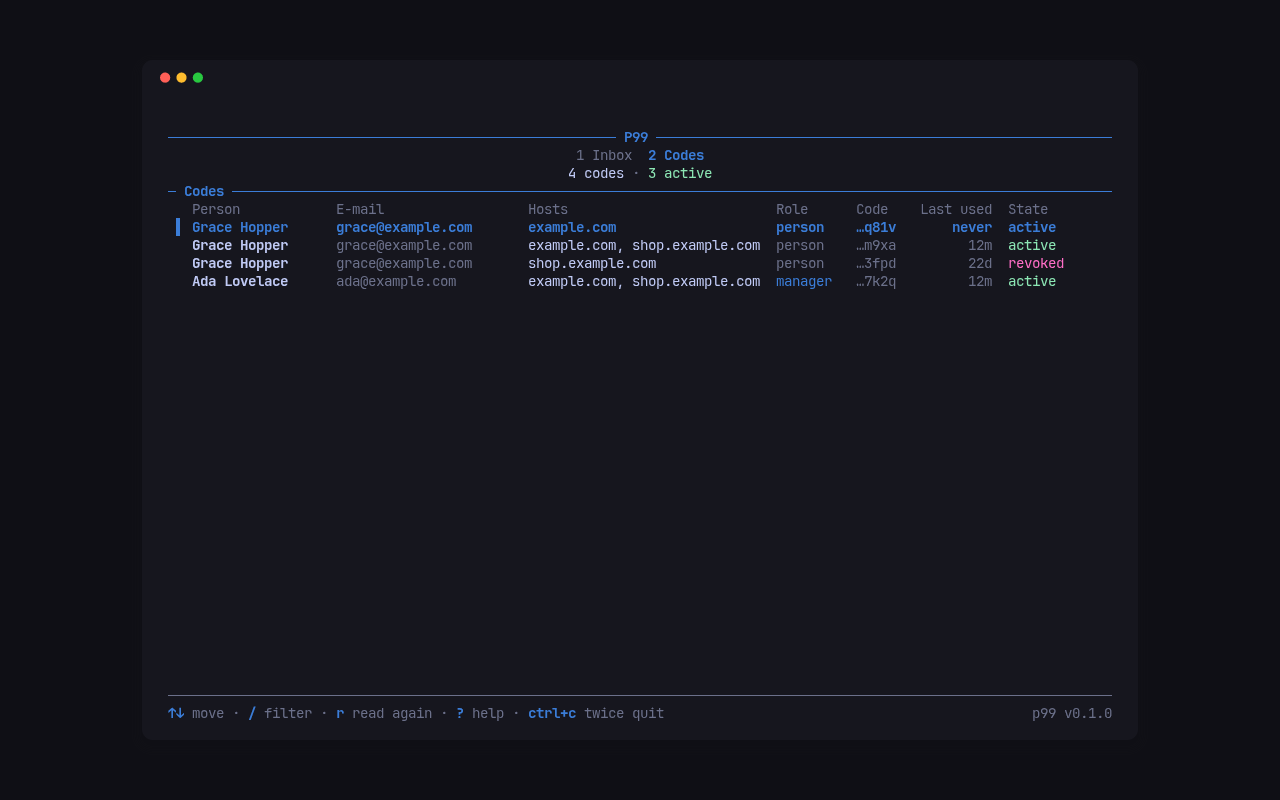
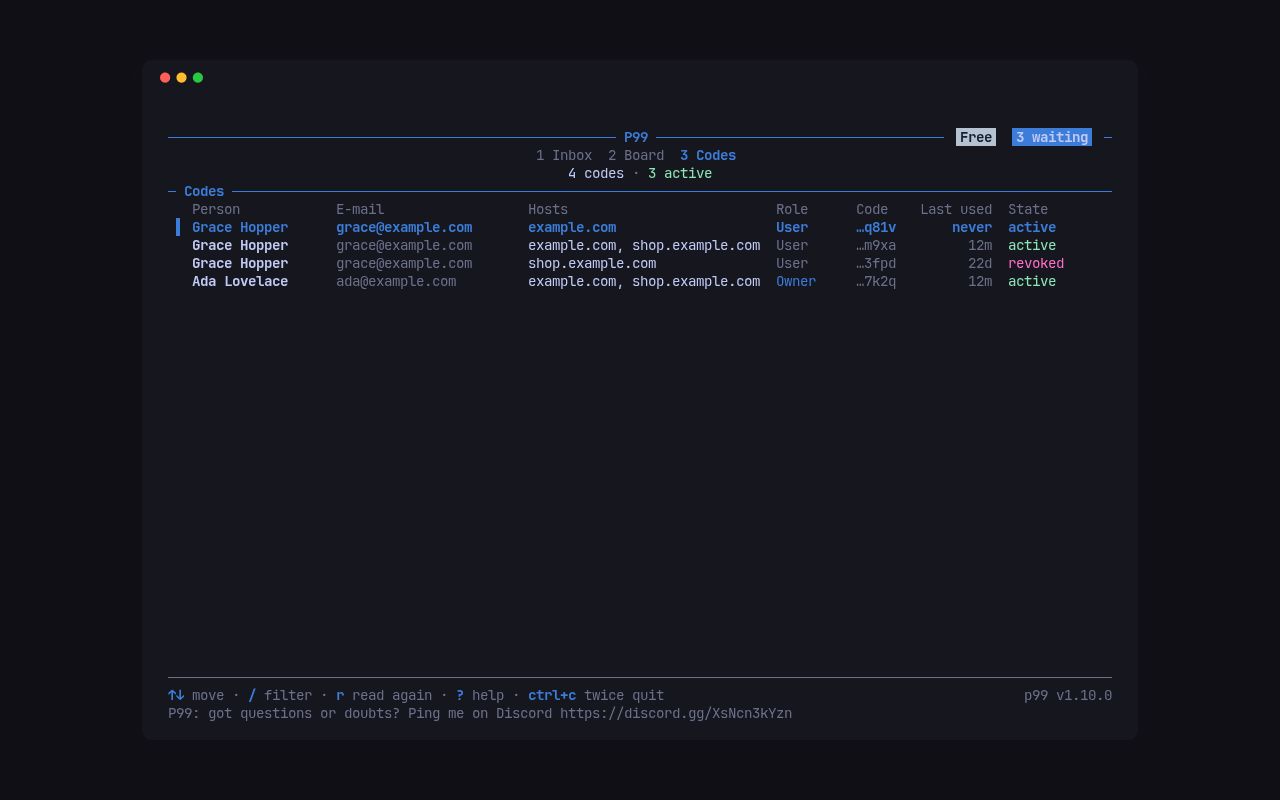
Re-shoot the thread and codes stills and the inbox, board and setup clips at 1.10: the agent's 🤖, the one board's seven lanes and project filter, the Owner and User words

diff --git a/README.md b/README.md
@@ -78,9 +78,9 @@ This is P99 on PITO MD's own site, [pitomd.com](https://pitomd.com), recorded on
 
 **The inbox.** `p99` (or `p99 tui`) shows every item across your sites and Cloudflare accounts, or one site at a time, with its host and its label on every row. Open a thread to read it, reply, add an internal note, move it to another lane with `m`, or assign it. `w` lists the cards that need you, and the header counts them (`3 waiting`). People are usernames, made from their names and changed by each person for themselves, so an assignee shows as `@grace.hopper` with a disc drawn from it, never an e-mail.
 
-<p align="center"><img src="docs/images/inbox.gif" width="800" alt="p99 tui: the inbox lists items from example.com, shop.example.com and dev.example.com with a host column, a filter narrows it, a thread opens with its host and environment, a reply is sent, the status set to resolved, and the view switches to one host."></p>
+<p align="center"><img src="docs/images/inbox.gif" width="800" alt="p99 tui: the inbox lists items from example.com, shop.example.com and dev.example.com with a host column, a filter narrows it, a thread opens with its host and environment, a reply is sent, the item moved to Done, and the view switches to one host."></p>
 
-<p align="center"><img src="docs/images/thread.png" width="49%" alt="A thread in p99 tui: BUG-3 on host shop.example.com in production, landed in dev and production, with three comments, one of them from Ada Lovelace 🤖 (her agent), and its events."> <img src="docs/images/codes.png" width="49%" alt="The codes screen of p99 tui: each invited person, their e-mail, hosts, role, the code's last four characters, when it was last used, and whether it is active."></p>
+<p align="center"><img src="docs/images/thread.png" width="49%" alt="A thread in p99 tui: BUG-3 on host shop.example.com in production, landed in dev and production, with three comments, one of them from Ada Lovelace 🤖 (her agent), and its events."> <img src="docs/images/codes.png" width="49%" alt="The codes screen of p99 tui: each invited person, their e-mail, hosts, role (Owner or User), the code's last four characters, when it was last used, and whether it is active."></p>
 
 **The board.** Each account has one board, and every item sits in one of its seven lanes, in that order. A lane's order is its priority: the top matters most, and there is no priority field to fill. Any Owner moves any card, and a filter narrows what shows (projects, hosts, who changed it last). An agent that needs a person's call moves its card to `Needs you`, and an Owner's reply sends it back to the lane it came from. `p99 move BUG-12 --to in-progress` (or `--to "In progress"`, with `--before` or `--after` another card) does it from a script or an agent; `p99 board` lists the lanes and their cards, `p99 cards --waiting` what needs you, and `p99 labels` the lanes' names, each with `--json`.
 
